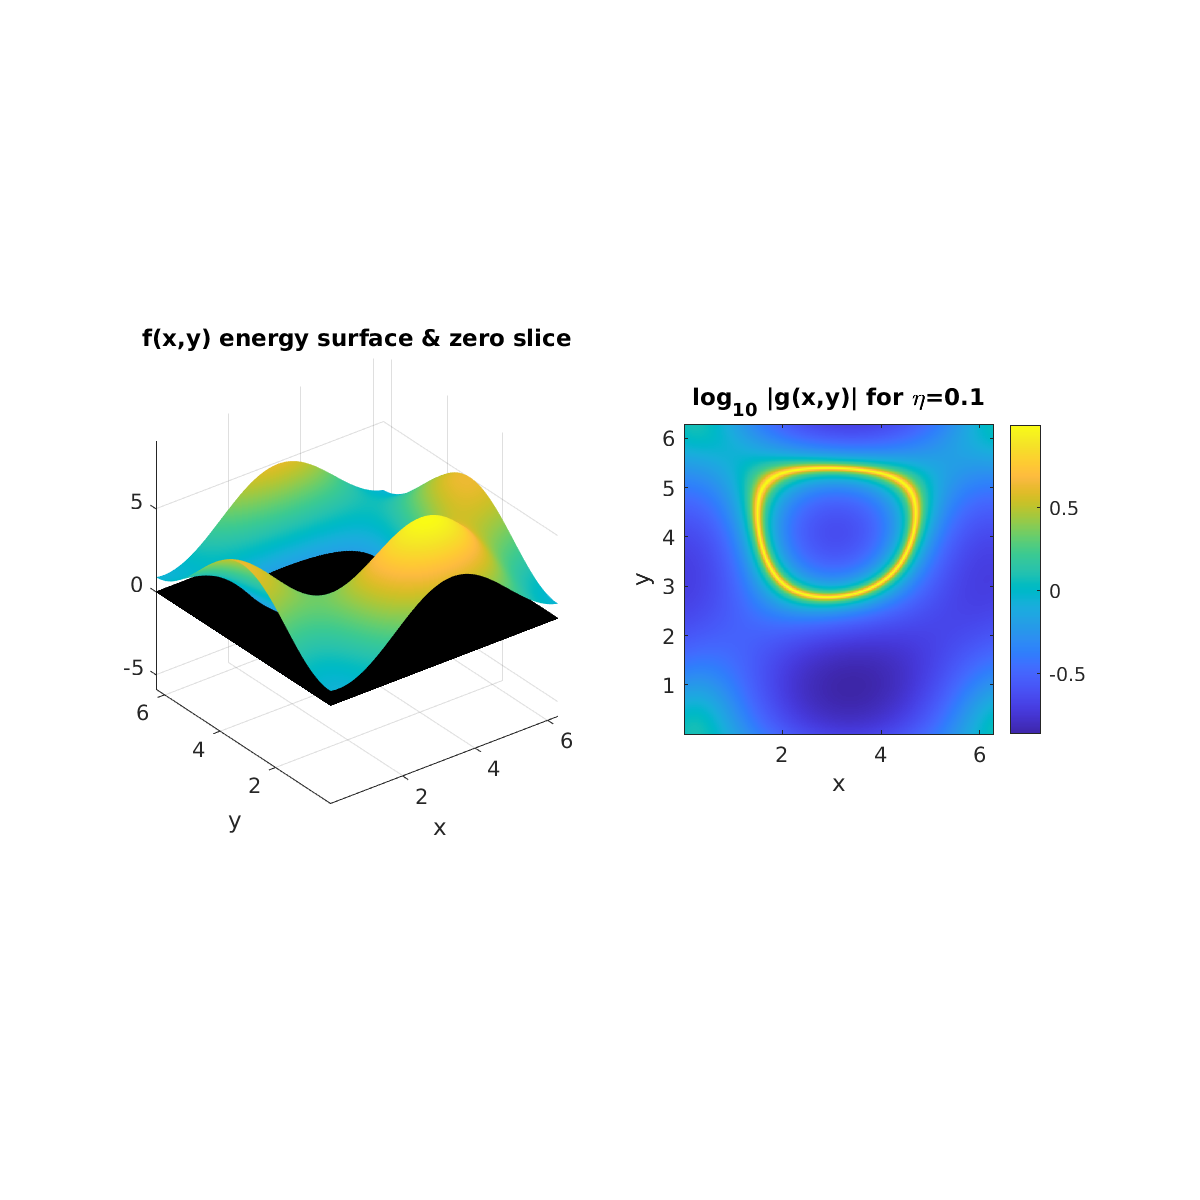
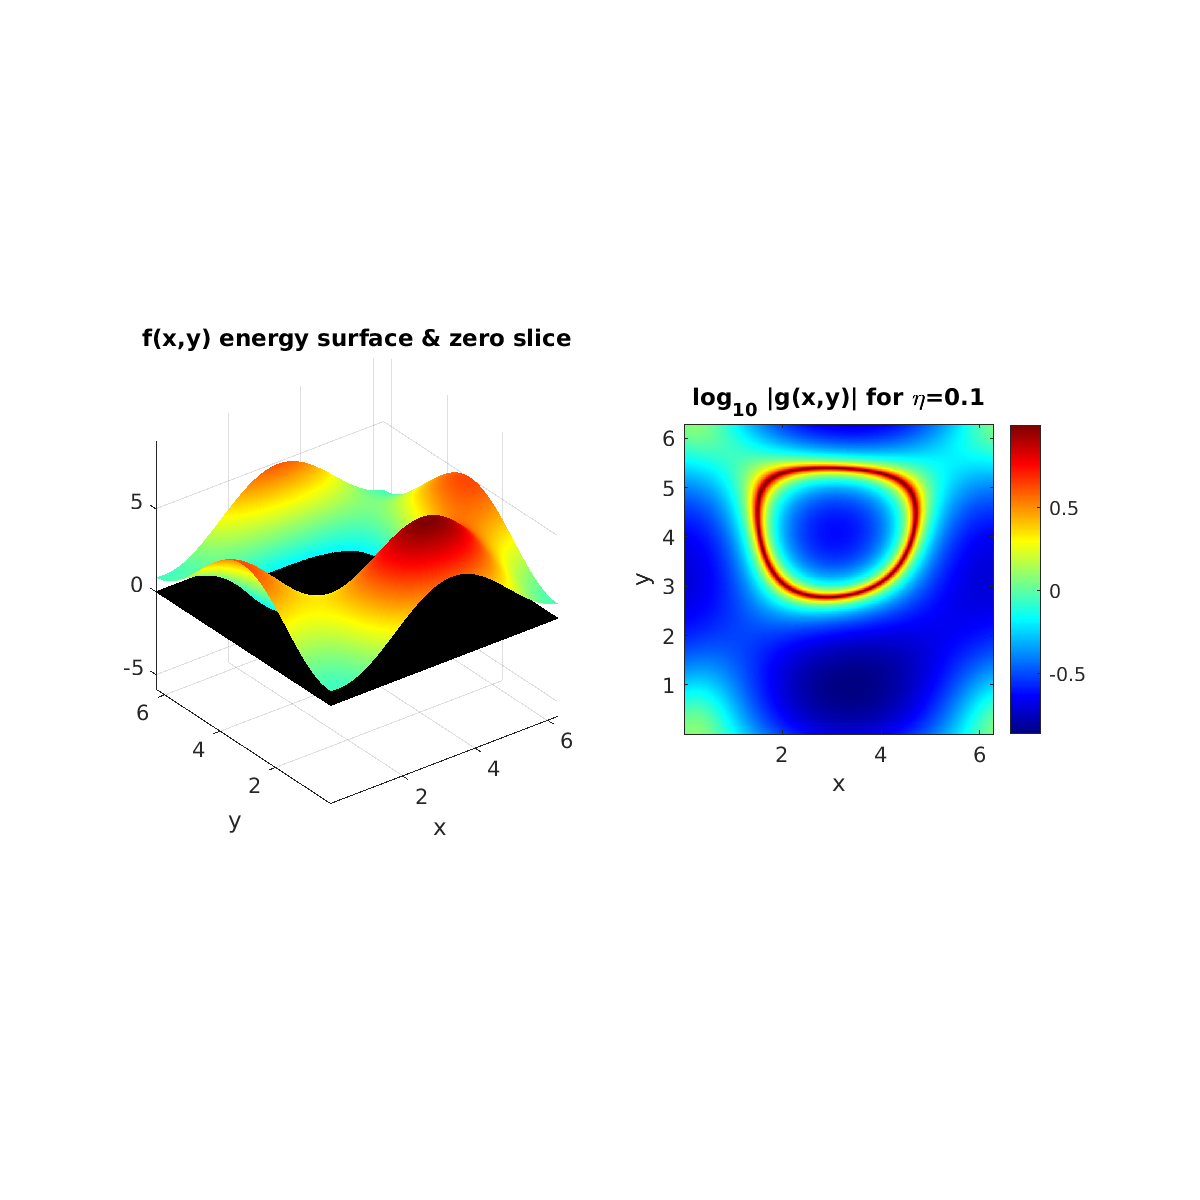
purge oneself of crazy idea

Changed region(s): [[0.555, 0.3392, 0.8942, 0.6167], [0.1233, 0.37, 0.4625, 0.5858]]

diff --git a/crazyC2.m b/crazyC2.m
@@ -1,0 +1,67 @@
+% test crazy C2 idea for Brillouin zone (BZ) integration over [0,2pi)^2,
+% const-shift in C2 for x,y.  Fails.
+% Barnett 3/18/22
+clear; close all; verb=1;
+
+nmax = 1;          % max Fourier freq in each dim
+co = energybandcoeffs2d(nmax);
+f = @(x,y) analenergyband2d(x,y,co);   % band func over BZ: (x,y) in [0,2pi)^2
+                                       % (analytic in x and y version)
+
+eta = 1e-1;   % imag shift param (inverse hardness of problem)
+gf = @(x,y) 1 ./ (1i*eta + f(x,y));     % "Green's func" or something, complex
+
+if verb>1   % conv plot
+ns=300:100:1000;    % plain double PTR : note n=1e3 needed for 1e-10 @ eta=.1
+for i=1:1:numel(ns), nx=ns(i);
+  g=(1:nx)/nx*2*pi; [xx yy] = ndgrid(g,g);
+  h = g(2)-g(1);
+  ggf = gf(xx,yy);       % integrand samples (ok since don't vary eta)
+  I(i) = h*h*sum(ggf(:));
+  fprintf('nx=%d:  \tI=%.12g +\t%.12gi\n',nx,real(I(i)),imag(I(i)))
+end
+Iex = I(end);
+figure(1); semilogy(ns,abs(I-Iex)/abs(Iex),'+-');
+xlabel('nx'); ylabel('rel err'); title('double-PTR conv naive')
+end
+
+nx = 400;
+g=(1:nx)/nx*2*pi; [xx yy] = ndgrid(g,g);
+ggf = gf(xx,yy);
+
+if verb
+figure(2);
+subplot(1,2,1); imagesc(g,g,real(ggf).')
+xlabel('x'); ylabel('y'); axis equal xy tight; colorbar;
+title(sprintf('Re (f-i\\eta)^{-1} for \\eta=%.3g',eta));
+subplot(1,2,2); imagesc(g,g,imag(ggf).')
+xlabel('x'); ylabel('y'); axis equal xy tight; colorbar;
+title(sprintf('Im (f-i\\eta)^{-1} for \\eta=%.3g',eta));
+end
+
+figure(3);  % anim in complex x plane of a const-y slice.
+ss = -2:0.02:2;        % im(x) to test
+[rxx ixx] = ndgrid(g,ss); xx = rxx+1i*ixx;
+for yc = 0:0.03:2*pi;
+  yy = yc + 0*xx;   % const slice
+  ggf = gf(xx,yy).';   % ss down, by xx across
+  imagesc(g,ss,real(ggf))
+  caxis(10*[-1 1])
+  xlabel('Re x'); ylabel('Im x'); axis equal tight; colorbar
+  title(sprintf('Re (f-i\\eta)^{-1}, x in C, slice real y=%.3g',yc));
+  drawnow
+end
+%return
+
+figure(4);
+nx = 400;
+g=(1:nx)/nx*2*pi; [xx yy] = ndgrid(g,g);
+for s = 0:0.01:1
+  ggf = gf(xx+1i*s,yy);       % integrand samples eval @ imag-shifted coords
+  %  ggf = gf(xx,yy+1i*s);       % integrand samples eval @ imag-shifted coords
+  imagesc(g,g,real(ggf).')
+  caxis(20*[-1 1])
+  xlabel('x'); ylabel('y'); axis equal xy tight; colorbar;
+  title(sprintf('Re (f-i\\eta)^{-1}, s=%.3g',s));
+  drawnow
+end

diff --git a/analenergyband2d.m b/analenergyband2d.m
@@ -1,11 +1,12 @@
-function [f fc] = energyband2d(x,y,co)
-% ENERGYBAND2D  energy f vs (x,y) wavevector in [0,2pi)^2, 2D Fourier series
+function [f fc] = analenergyband2d(x,y,co)
+% ANALENERGYBAND2D  energy f vs (x,y) wavevector in [0,2pi)^2, 2D Fourier series
 %
-% [f fcount] = energyband2d(x,y,co) returns f(x,y) values of same shape as x
+% [f fcount] = analenergyband2d(x,y,co) returns f(x,y) values of same shape as x
 %  and y arrays, vectorized. co is a 2D Fourier coefficient array of odd size
 %  with freqs -nmax:nmax. fcount is a counter increasing one per func eval.
+%  It is analytic w.r.t. x and y.
 
-% Barnett 12/9/12.
+% Barnett 12/9/12, changed for complex coord inputs 3/18/22.
 persistent fcount
 if isempty(fcount), fcount=1; else fcount=fcount+1; end, fc=fcount;
 
@@ -17,4 +18,4 @@ for n=-N:N
         f = f + co(n+N+1,m+N+1) * (cos(a) + 1i*sin(a));
     end
 end
-f = real(f);   % *** this means the above is twice as slow as could be
+% (do not take real part)
